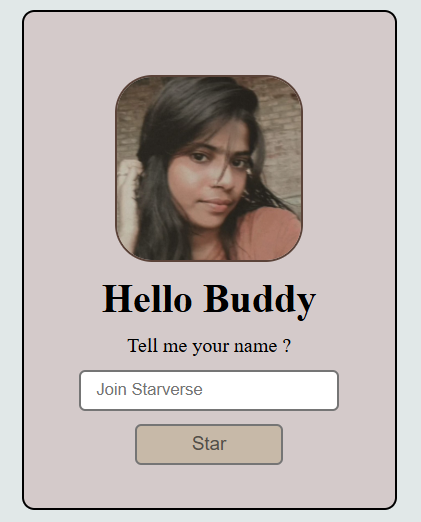
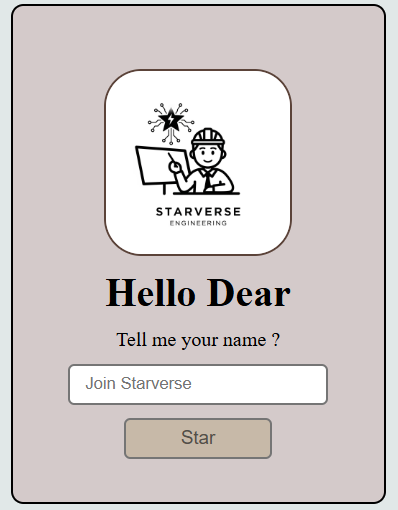
image and files updated

diff --git a/index.html b/index.html
@@ -4,17 +4,21 @@
     <meta charset="UTF-8">
     <meta name="viewport" content="width=device-width, initial-scale=1.0">
     <title>Star-Name</title>
+    <link rel="shortcut icon" href="images/Starverse.jpeg" type="image/x-icon">
     <link rel="stylesheet" href="style.css">
 </head>
 <body>
     <div class="box">
-        <img src="/images/anku.jpg" alt="">
-        <h1>Hello Buddy</h1>
+        <img src="/images/Starverse.jpeg" alt="">
+        <h1>Hello Dear</h1>
         <p>Tell me your name ?</p>
         <input type="text" name="name" id="name" placeholder="Join Starverse">
         <button id="btn">Star</button>
         <script src="script.js"></script>
-        <div class="card"></div>
+        <!-- <div class="card">
+            <h2>Hello </h2>
+            <button>Join us </button>
+        </div> -->
     </div>
 </body>
 </html>

diff --git a/script.js b/script.js
@@ -1,12 +1,11 @@
-var Name = document.querySelector('h1')
-var btn = document.querySelector('#btn')
+var h1 = document.querySelector('h1')
+var Name = document.querySelector('#name')
+// var btn = document.querySelector('#btn')
+// var card = document.querySelector('.card')
+// // console.log(Name)
 
-// console.log(Name)
+btn.addEventListener('click',function(){
+    h1.innerHTML = `Welcome ` + Name.value
+})
 
-// btn.addEventListener('mouseenter',function(){
-//     btn.innerHTML = 'Join us'
-// })
 
-// btn.addEventListener('mouseleave',function(){
-//     btn.innerHTML = 'Star'
-// })

diff --git a/style.css b/style.css
@@ -79,11 +79,19 @@ button:hover {
     border: 2px solid #AB7864;
         
 }
-
-/* .card {
-    width: 100%;
-    height: 50%;
-    background-color: red;
+/* 
+.card {
+    opacity: 1;
+    width: 80%;
+    height: 40%;
+    bottom: 60%;
+    display: flex;
+    justify-content: center;
+    align-items: center;
+    flex-direction: column;
+    border: 2px solid #AB7864;
+    border-radius: 10px;
+    background-color: #c4baaf;
     position: absolute;
-    bottom: 0;
+    
 } */

diff --git a/README.md b/README.md
@@ -39,6 +39,8 @@ Star-Name/
 └── images/
     ├── anku.jpg        # Profile image
     └── Star.png        # Sample output image
+    ├── Starverse.jpeg        # Favicon image    
+
 ```
 
 ---
